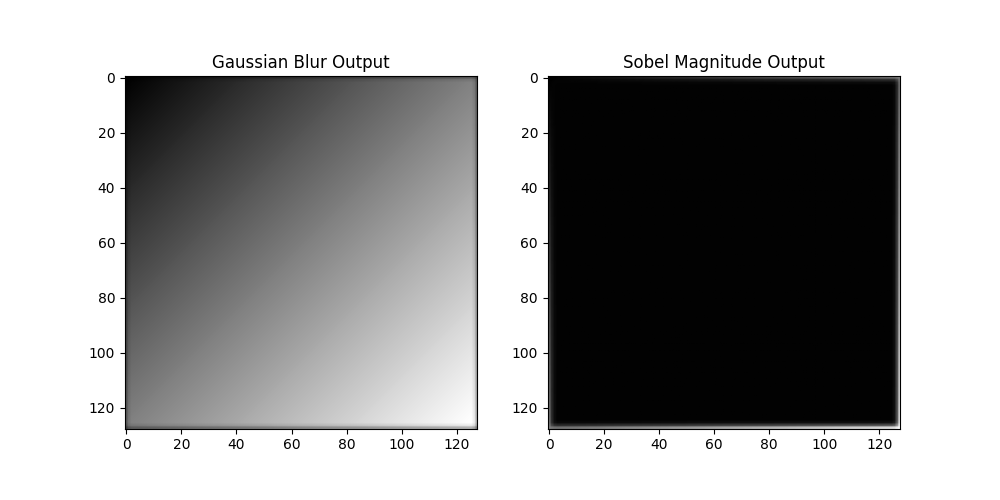
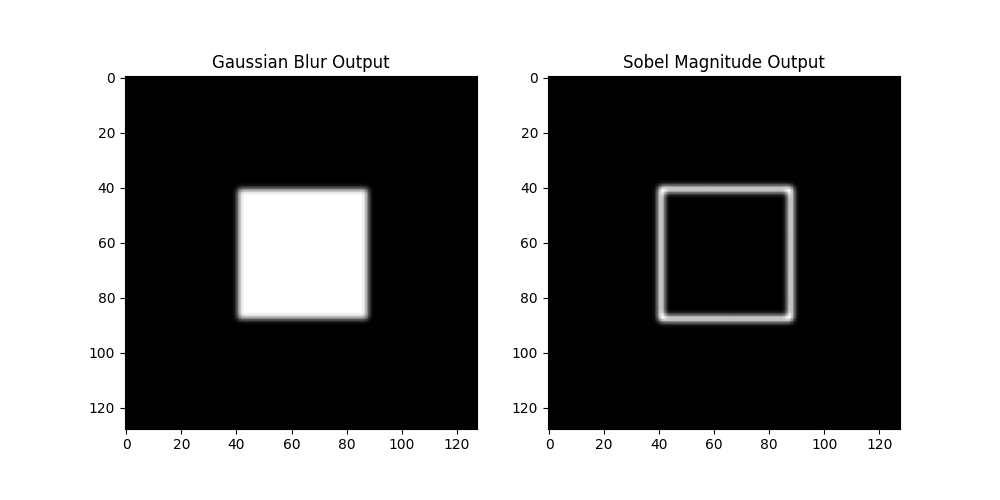
Add white square test image - Gaussian and Sobel outputs verified on QEMU

diff --git a/src/main.cpp b/src/main.cpp
@@ -7,15 +7,22 @@ int main() {
     int width = 128;
     int height = 128;
 
+    // مربع أبيض على خلفية سوداء
     Image input(width, height);
     for (int y = 0; y < height; y++)
-        for (int x = 0; x < width; x++)
-            input.setPixel(x, y, (x + y) % 256);
+        for (int x = 0; x < width; x++) {
+            if (x > 40 && x < 88 && y > 40 && y < 88)
+                input.setPixel(x, y, 255);
+            else
+                input.setPixel(x, y, 0);
+        }
 
+    // Gaussian Blur
     Image blurred = gaussianBlur(input);
     blurred.save("/tmp/blurred.raw");
     std::cout << "Gaussian Blur done!" << std::endl;
 
+    // Sobel Gradient
     SobelResult result = sobelGradient(blurred);
     result.magnitude.save("/tmp/magnitude.raw");
     std::cout << "Sobel done!" << std::endl;
